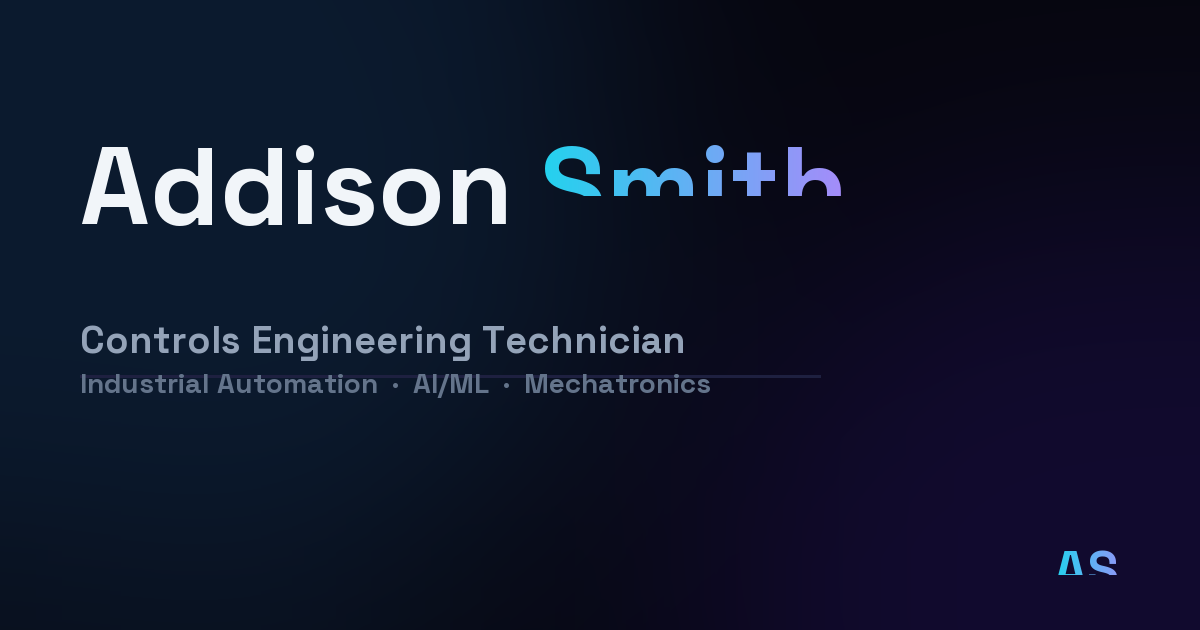
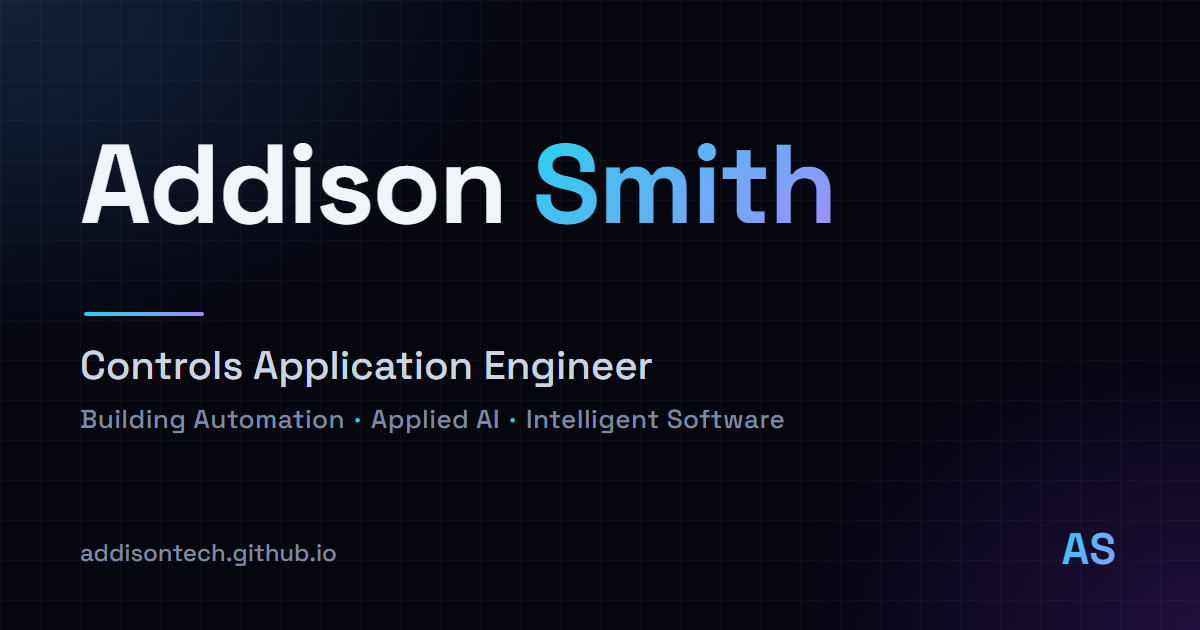
Refresh the social preview image and tighten the Mantis and Smith_Agentic copy

diff --git a/index.html b/index.html
@@ -375,9 +375,9 @@
                                 <p class="bullet-section">Building Automation Controls</p>
                                 <ul class="timeline-bullets">
                                     <li>Design and application engineering for Mantis BMS projects</li>
-                                    <li>Niagara framework work across client building systems</li>
+                                    <li>Niagara framework work across hyperscale data center building systems</li>
                                     <li>Ignition for supervisory control and visualization</li>
-                                    <li>BACnet integration across client building systems</li>
+                                    <li>BACnet and Modbus integration across building equipment and controllers</li>
                                 </ul>
                             </div>
                         </div>
@@ -678,10 +678,11 @@
                         </div>
                         <h3 class="project-title">Smith_Agentic</h3>
                         <p class="project-desc">
-                            A modular multi-agent framework for engineering workflows, built as three components: a Python/CrewAI
-                            backend with twenty specialized agents across four crews, a React UI with live WebSocket streaming,
-                            a template library of 18 pre-built tasks across Code, PLC, HMI, Vision, Safety, and Ops categories,
-                            and offline demo mode, and an MCP server that exposes crew runs as tools for Claude Code and Claude Desktop.
+                            A modular multi-agent framework for engineering workflows, built as four components: a Python/CrewAI
+                            backend with twenty specialized agents across four crews; a React UI with live WebSocket streaming,
+                            18 pre-built task templates across Code, PLC, HMI, Vision, Safety, and Ops, and an offline demo mode;
+                            an MCP server that exposes crew runs as tools for Claude Code and Claude Desktop; and a Rust CLI for
+                            driving the backend from the terminal.
                         </p>
                         <p class="project-outcome">Twenty specialized agents. Four crews. One framework that turns engineering goals into finished deliverables without touching the cloud.</p>
                         <div class="project-tags">
